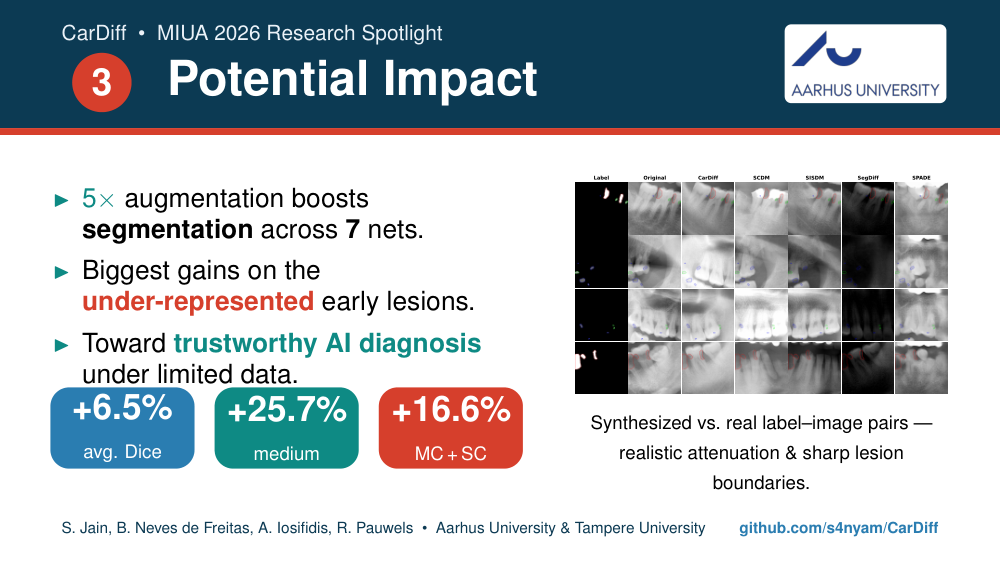
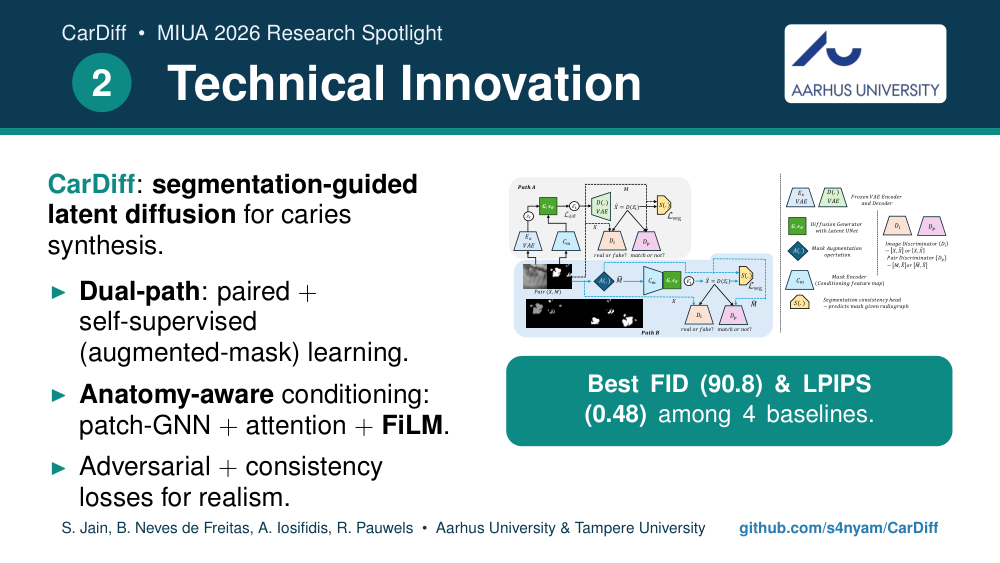
Add title/authors slide to spotlight; refresh transcript, previews & README
- Spotlight deck opens with a title slide (author photos, affiliations, correspondence)
- Re-timed 60-second transcript into 4 blocks (Title/Motivation/Technical/Impact)
- Update spotlight previews (now 4) and README media section
- Fix two malformed caption tags left after source-zip removal; keep zips out per repo state

diff --git a/README.md b/README.md
@@ -97,20 +97,22 @@ Presentation materials prepared for **MIUA 2026** (University College Dublin · 
 <p align="center">
   <a href="assets/CarDiff_MIUA2026_poster.pdf"><img src="docs/figures/poster.png" alt="CarDiff MIUA 2026 conference poster" width="86%"></a>
 </p>
-<p align="center"><sub>📄 <a href="assets/CarDiff_MIUA2026_poster.pdf">Poster (PDF)</a> &nbsp;·&nbsp; 
+<p align="center"><sub>📄 <a href="assets/CarDiff_MIUA2026_poster.pdf">Poster (PDF)</a></sub></p>
 
 ### 1-minute Research Spotlight
 
-Backdrop slides for the spotlight — **Motivation → Technical Innovation → Potential Impact**.
+Backdrop slides for the ≤ 60-second spotlight video — **Title & Authors → Motivation → Technical Innovation → Potential Impact**.
 
 <p align="center">
-  <img src="docs/figures/spotlight_1.png" alt="Spotlight slide 1 — Motivation" width="80%">
+  <img src="docs/figures/spotlight_1.png" alt="Spotlight slide 1 — Title & Authors" width="80%">
   <br><br>
-  <img src="docs/figures/spotlight_2.png" alt="Spotlight slide 2 — Technical Innovation" width="80%">
+  <img src="docs/figures/spotlight_2.png" alt="Spotlight slide 2 — Motivation" width="80%">
   <br><br>
-  <img src="docs/figures/spotlight_3.png" alt="Spotlight slide 3 — Potential Impact" width="80%">
+  <img src="docs/figures/spotlight_3.png" alt="Spotlight slide 3 — Technical Innovation" width="80%">
+  <br><br>
+  <img src="docs/figures/spotlight_4.png" alt="Spotlight slide 4 — Potential Impact" width="80%">
 </p>
-<p align="center"><sub>🖥️ <a href="assets/CarDiff_MIUA2026_spotlight.pdf">Slides (PDF)</a> &nbsp;·&nbsp;
+<p align="center"><sub>🖥️ <a href="assets/CarDiff_MIUA2026_spotlight.pdf">Slides (PDF)</a> &nbsp;·&nbsp; 🎙️ <a href="assets/CarDiff_MIUA2026_spotlight_transcript.pdf">60-second speaking script</a></sub></p>
 
 ---
 
@@ -134,7 +136,7 @@ CarDiff/
 ├── baselines/            # Comparison methods: SPADE · SCDM · SISDM · SegDiff
 ├── analysis/             # Plotting & qualitative mosaics
 ├── tools/                # Data utilities (manual masking app, pixel cleanup)
-├── assets/               # Paper, poster & 1-min spotlight (PDF + LaTeX sources)
+├── assets/               # Paper, poster, 1-min spotlight & speaking script (PDF)
 ├── docs/                 # Figures & supplementary material
 ├── requirements.txt
 └── LICENSE